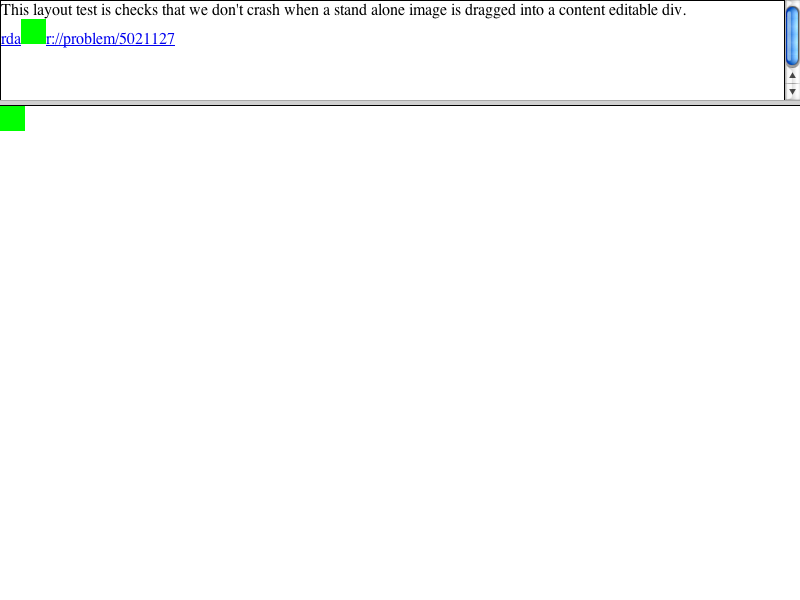
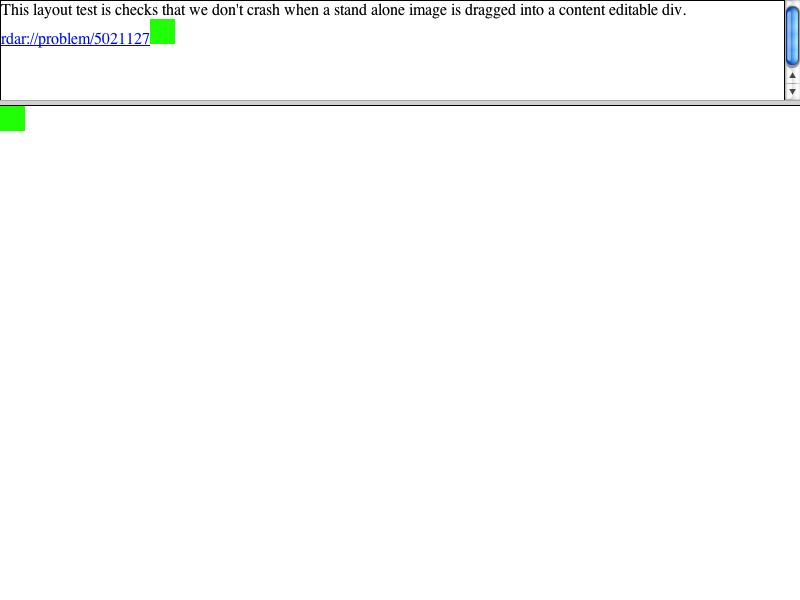
2009-04-21  Darin Adler  <darin@apple.com>
Reviewed by Adele Peterson.

        Fix some tests that are depending on Mac vs. Windows selection quirks accidentally.
        Added failing tests to the skipped list for SnowLeopard.

        * editing/resources/select-all-iframe-src.html: Moved.
        * editing/selection/resources/select-all-iframe-src.html: Moved from
        editing/resources/select-all-iframe-src.html, since this is used by a test in the
        selection directory. Changed mouse coordinates to be farther to the right so we
        don't depend on the rule for what's selected when you click below text on the last line.
        * editing/selection/select-all-iframe.html: Updated for new location of file above.

        * fast/events/standalone-image-drag-to-editable.html: Changed mouse coordinates to be
        farther to the right so we don't depend on the rule for what's selected when you click
        below text on the last line.

        * platform/mac-snowleopard/Skipped: Added some tests to the Skipped list.

        * svg/custom/pointer-events-path.svg: Clear the selection at the end of the test so it's
        not in the test results. Also removed unneeded use of the layout test controller.

        * platform/mac/editing/selection/select-all-iframe-expected.checksum: Generated new results.
        * platform/mac/editing/selection/select-all-iframe-expected.png: Ditto.
        * platform/mac/editing/selection/select-all-iframe-expected.txt: Ditto.
[…]

Changed region(s): [[0.0, 0.03, 0.2188, 0.09], [0.0, 0.15, 0.0312, 0.24]]

diff --git a/LayoutTests/editing/selection/select-all-iframe.html b/LayoutTests/editing/selection/select-all-iframe.html
@@ -3,7 +3,7 @@ if (window.layoutTestController)
      layoutTestController.dumpEditingCallbacks();
 </script>
 
-<iframe id="iframe" src="../resources/select-all-iframe-src.html"></iframe><br><br>
+<iframe id="iframe" src="resources/select-all-iframe-src.html"></iframe><br><br>
 <p><b>This test uses the eventSender to do a mouse click to focus the subframe.  It won't run interactively.</b>  To run it manually, click on the iframe, Select All, then hit delete.</p>
 Selecting all the content in a contenteditable iframe should select the iframe itself (to help the user delete the iframe) only if the iframe is in an editable region.  This test loads ../resources/select-all-iframe-src.html into an iframe.  That file does a Select All + Delete.  Two things should happen:
 

diff --git a/LayoutTests/editing/selection/resources/select-all-iframe-src.html b/LayoutTests/editing/selection/resources/select-all-iframe-src.html
@@ -1,4 +1,4 @@
-<script src=../editing.js language="JavaScript" type="text/JavaScript"></script>
+<script src="../../editing.js" language="JavaScript" type="text/JavaScript"></script>
 <script>
 function editingTest() {
     if (!window.layoutTestController)
@@ -7,7 +7,7 @@ function editingTest() {
     window.layoutTestController.waitUntilDone();
     
     // Give focus to the subframe so that Select All will operate on it, and not the main frame.
-    eventSender.mouseMoveTo(50, 50);
+    eventSender.mouseMoveTo(100, 50);
     eventSender.mouseDown();
     eventSender.mouseUp();
     

diff --git a/LayoutTests/fast/events/standalone-image-drag-to-editable.html b/LayoutTests/fast/events/standalone-image-drag-to-editable.html
@@ -8,7 +8,7 @@
       eventSender.mouseMoveTo(20, 120);
       eventSender.mouseDown();
       eventSender.leapForward(500);
-      eventSender.mouseMoveTo(20, 50);
+      eventSender.mouseMoveTo(200, 50);
       eventSender.mouseUp();
     }
     var numFramesLoaded = 0;
